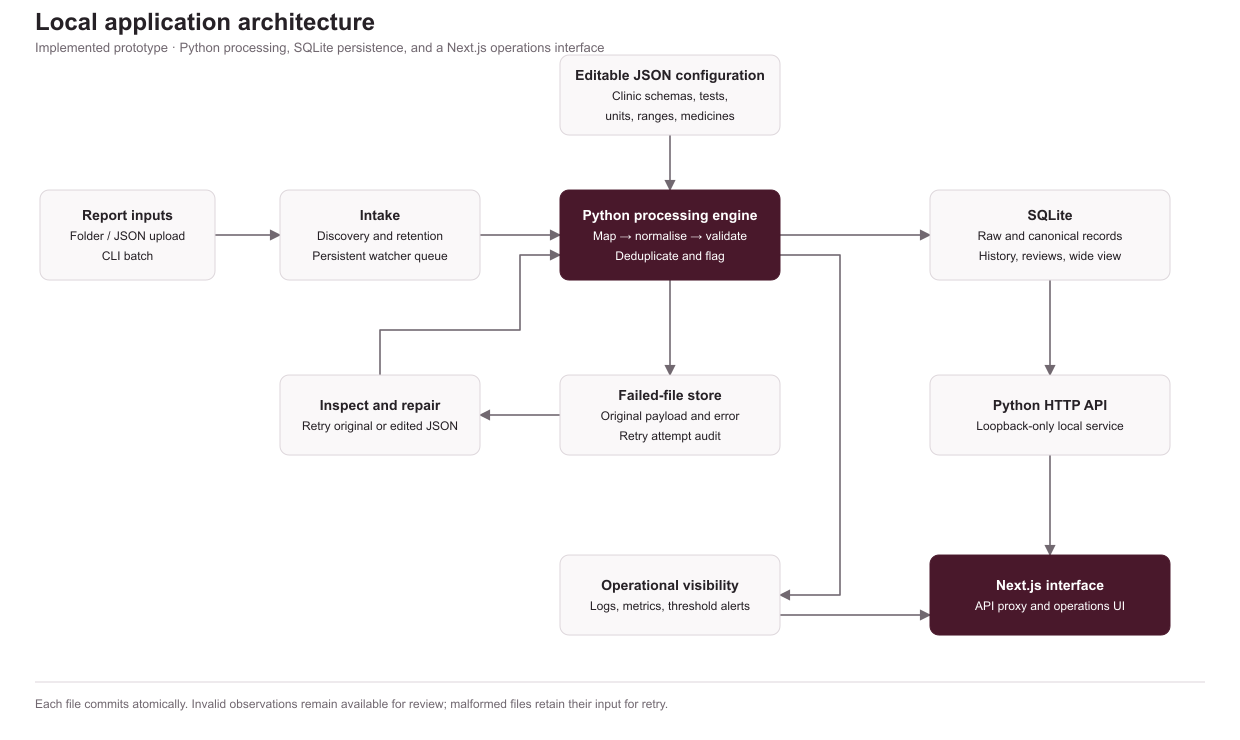
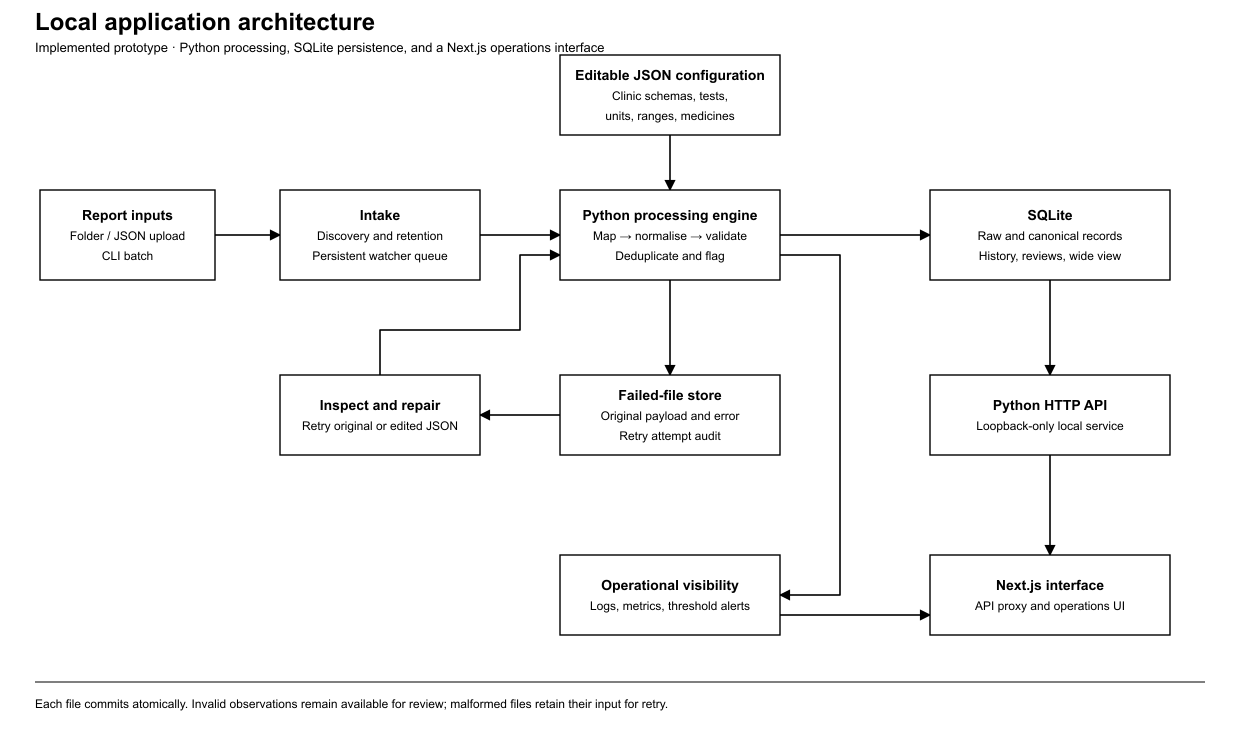
Use black-and-white architecture drawings

diff --git a/scripts/render_diagrams.py b/scripts/render_diagrams.py
@@ -5,11 +5,11 @@ from xml.etree import ElementTree as ET
 ROOT = Path(__file__).resolve().parents[1]
 DEST = ROOT / 'docs/diagrams'
 WIDTH, HEIGHT = 1240, 740
-BURGUNDY, INK, MUTED, BORDER = '#49182b', '#262126', '#716870', '#ddd6db'
+INK, MUTED, BORDER = '#000000', '#000000', '#000000'
 
 
-def node(identifier, x, y, w, h, *lines, accent=False):
-    return dict(id=identifier,x=x,y=y,w=w,h=h,lines=lines,accent=accent)
+def node(identifier, x, y, w, h, *lines):
+    return dict(id=identifier,x=x,y=y,w=w,h=h,lines=lines)
 
 
 pages = [
@@ -18,14 +18,14 @@ pages = [
          nodes=[
              node('input',40,190,175,90,'Report inputs','Folder / JSON upload','CLI batch'),
              node('intake',280,190,200,90,'Intake','Discovery and retention','Persistent watcher queue'),
-             node('engine',560,190,220,90,'Python processing engine','Map → normalise → validate','Deduplicate and flag',accent=True),
+             node('engine',560,190,220,90,'Python processing engine','Map → normalise → validate','Deduplicate and flag'),
              node('config',560,55,220,80,'Editable JSON configuration','Clinic schemas, tests,','units, ranges, medicines'),
              node('db',930,190,240,90,'SQLite','Raw and canonical records','History, reviews, wide view'),
              node('errors',560,375,220,80,'Failed-file store','Original payload and error','Retry attempt audit'),
              node('retry',280,375,200,80,'Inspect and repair','Retry original or edited JSON'),
              node('api',930,375,240,80,'Python HTTP API','Loopback-only local service'),
              node('metrics',560,555,220,80,'Operational visibility','Logs, metrics, threshold alerts'),
-             node('ui',930,555,240,80,'Next.js interface','API proxy and operations UI',accent=True)],
+             node('ui',930,555,240,80,'Next.js interface','API proxy and operations UI')],
          edges=[('input','intake',[(215,235),(280,235)]),('intake','engine',[(480,235),(560,235)]),
                 ('config','engine',[(670,135),(670,190)]),('engine','db',[(780,235),(930,235)]),
                 ('engine','errors',[(670,280),(670,375)]),('errors','retry',[(560,415),(480,415)]),
@@ -40,13 +40,13 @@ pages = [
              node('clinic',35,190,155,90,'Clinics','JSON reports'),
              node('gcs',230,190,180,90,'Cloud Storage','Clinic / date paths','Immutable object versions'),
              node('queue',460,190,180,90,'Pub/Sub','Arrival events','Buffer burst traffic'),
-             node('workers',720,190,200,90,'Cloud Run workers','Parse and standardise','Validate and flag',accent=True),
+             node('workers',720,190,200,90,'Cloud Run workers','Parse and standardise','Validate and flag'),
              node('config',720,55,200,80,'Versioned configuration','Reviewed and pinned per job'),
              node('warehouse',980,190,220,90,'BigQuery','Staging → MERGE','Stable-ID deduplication'),
              node('dlq',460,385,180,80,'Dead-letter storage','Payload, error, correlation ID'),
              node('replay',230,385,180,80,'Repair and replay','Retain original generation'),
              node('apiui',980,385,220,80,'Read API and UI','Authenticated operations','Raw / canonical inspection'),
-             node('monitor',720,560,200,80,'Cloud Monitoring','Queue age, p95, error rate','Correlated logs and alerts',accent=True)],
+             node('monitor',720,560,200,80,'Cloud Monitoring','Queue age, p95, error rate','Correlated logs and alerts')],
          edges=[('clinic','gcs',[(190,235),(230,235)]),('gcs','queue',[(410,235),(460,235)]),
                 ('queue','workers',[(640,235),(720,235)]),('config','workers',[(820,135),(820,190)]),
                 ('workers','warehouse',[(920,235),(980,235)]),('warehouse','apiui',[(1090,280),(1090,385)]),
@@ -61,14 +61,14 @@ pages = [
              node('schema',40,155,240,85,'Clinic schema and samples','Identify version and field paths'),
              node('mapping',345,155,240,85,'Versioned configuration','Aliases, units, quality contracts'),
              node('verify',650,155,240,85,'Validate and review','Representative sample tests','Domain review of medical rules'),
-             node('release',955,155,240,85,'Release mappings','Pin configuration per job','Replay with output history',accent=True),
+             node('release',955,155,240,85,'Release mappings','Pin configuration per job','Replay with output history'),
              node('raw',40,355,240,85,'Immutable source evidence','Object generation and clinic ID'),
              node('lineage',345,355,240,85,'Traceable output','Stable IDs, timestamps, config hash'),
              node('security',650,355,240,85,'Privacy and security','Encryption and tokenisation','Least-privilege access'),
              node('retention',955,355,240,85,'Governed access','Retention, deletion, audit policy'),
              node('events',40,555,240,85,'Structured events','Run and record correlation IDs'),
              node('signals',345,555,240,85,'Operational metrics','Throughput, errors, lag, p95','Coverage and duplicates'),
-             node('alerts',650,555,240,85,'Threshold alerts','Error rate >1%','Queue age / latency breach',accent=True),
+             node('alerts',650,555,240,85,'Threshold alerts','Error rate >1%','Queue age / latency breach'),
              node('response',955,555,240,85,'Operational response','Investigate → repair → replay','Track resolution and recovery')],
          edges=[('schema','mapping',[(280,197),(345,197)]),('mapping','verify',[(585,197),(650,197)]),('verify','release',[(890,197),(955,197)]),
                 ('raw','lineage',[(280,397),(345,397)]),('lineage','security',[(585,397),(650,397)]),('security','retention',[(890,397),(955,397)]),
@@ -94,7 +94,7 @@ def render(page, document):
     marker=ET.SubElement(defs,'marker',{'id':'arrow','viewBox':'0 0 10 10','refX':'9','refY':'5','markerWidth':'7','markerHeight':'7','orient':'auto-start-reverse'})
     ET.SubElement(marker,'path',{'d':'M 0 0 L 10 5 L 0 10 z','fill':MUTED})
     diagram=ET.SubElement(document,'diagram',{'id':page['slug'],'name':page['title']})
-    model=ET.SubElement(diagram,'mxGraphModel',{'dx':str(WIDTH),'dy':str(HEIGHT),'grid':'1','gridSize':'10','page':'1','pageWidth':str(WIDTH),'pageHeight':str(HEIGHT),'arrows':'1','connect':'1'})
+    model=ET.SubElement(diagram,'mxGraphModel',{'dx':str(WIDTH),'dy':str(HEIGHT),'grid':'1','gridSize':'10','page':'1','pageWidth':str(WIDTH),'pageHeight':str(HEIGHT),'arrows':'1','connect':'1','background':'#ffffff'})
     root=ET.SubElement(model,'root');ET.SubElement(root,'mxCell',{'id':'0'});ET.SubElement(root,'mxCell',{'id':'1','parent':'0'})
     def label(identifier,text,x,y,w,h,size=14,color=INK):
         cell=ET.SubElement(root,'mxCell',{'id':identifier,'value':text,'vertex':'1','parent':'1','style':f'text;html=0;align=left;verticalAlign=middle;fontFamily=Helvetica;fontSize={size};fontColor={color};'})
@@ -114,12 +114,12 @@ def render(page, document):
             array=ET.SubElement(geom,'Array',{'as':'points'})
             for x,y in points[1:-1]:ET.SubElement(array,'mxPoint',{'x':str(x),'y':str(y)})
     for n in page['nodes']:
-        fill,text_color=(BURGUNDY,'#ffffff') if n['accent'] else ('#faf8f9',INK)
-        ET.SubElement(svg,'rect',{'x':str(n['x']),'y':str(n['y']),'width':str(n['w']),'height':str(n['h']),'rx':'9','fill':fill,'stroke':BURGUNDY if n['accent'] else BORDER})
+        fill,text_color='#ffffff',INK
+        ET.SubElement(svg,'rect',{'x':str(n['x']),'y':str(n['y']),'width':str(n['w']),'height':str(n['h']),'rx':'0','fill':fill,'stroke':BORDER,'stroke-width':'1.4'})
         first_y=n['y']+n['h']/2-(len(n['lines'])-1)*10+5
         for i,line in enumerate(n['lines']):svg_text(svg,n['x']+n['w']/2,first_y+i*20,line,14 if i==0 else 12,text_color,'600' if i==0 else '400','middle')
         value='\n'.join(n['lines'])
-        cell=ET.SubElement(root,'mxCell',{'id':n['id'],'value':value,'vertex':'1','parent':'1','style':f'rounded=1;whiteSpace=wrap;html=0;fillColor={fill};strokeColor={BURGUNDY if n["accent"] else BORDER};fontColor={text_color};fontSize=13;fontFamily=Helvetica;spacing=8;'})
+        cell=ET.SubElement(root,'mxCell',{'id':n['id'],'value':value,'vertex':'1','parent':'1','style':f'rounded=0;whiteSpace=wrap;html=0;fillColor={fill};strokeColor={BORDER};strokeWidth=1.4;fontColor={text_color};fontSize=13;fontFamily=Helvetica;spacing=8;'})
         ET.SubElement(cell,'mxGeometry',{'x':str(n['x']),'y':str(n['y']),'width':str(n['w']),'height':str(n['h']),'as':'geometry'})
     ET.SubElement(svg,'line',{'x1':'35','y1':'682','x2':'1205','y2':'682','stroke':BORDER})
     svg_text(svg,35,708,page['footer'],12,MUTED)
